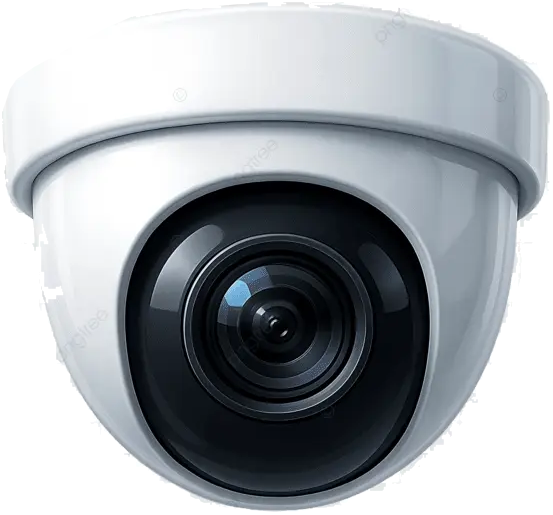
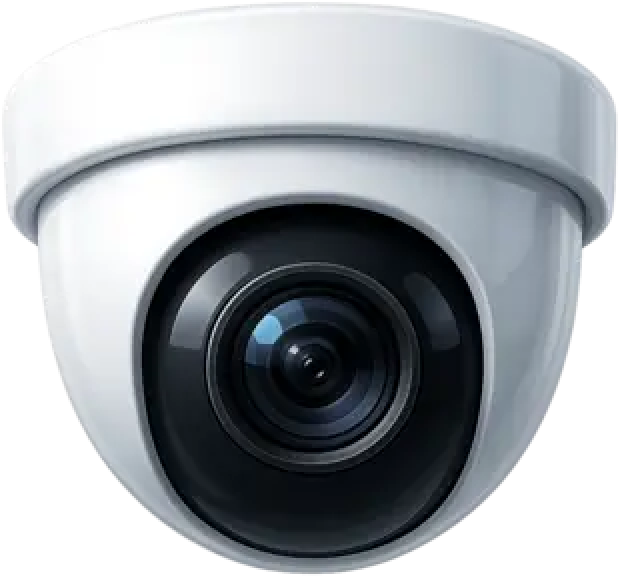
ob-loading: black magnifier reveals a 5% ghost camera
Swap in the clean transparent dome-camera image. Outside the lens the
camera sits at 5% opacity; the black magnifier wanders over it and
only its glass shows the camera, returning to the camera lens.

diff --git a/home-app-oneui.html b/home-app-oneui.html
@@ -2701,18 +2701,17 @@ button.oneui-Avatar{position:relative}
 @keyframes ob-pulse{0%{transform:scale(.7);opacity:.35}100%{transform:scale(1.35);opacity:0}}
 .ob-search-layer{position:absolute;left:0;top:0;width:320px;height:260px}
 .ob-item{position:absolute;display:block}
-.ob-item-camera{left:55px;top:32px;width:210px;height:196px;object-fit:contain;filter:drop-shadow(0 14px 18px color-mix(in srgb,var(--Primary-Bold) 18%,transparent))}
-.ob-search-view .ob-item-camera{filter:none}
-/* Magnifier: 60px lens with a gradient ring; its glass shows the camera magnified. */
+.ob-item-camera{left:55px;top:32px;width:210px;height:196px;object-fit:contain}
+/* Outside the lens the camera is barely there; only the lens shows it clearly. */
+.ob-search-ghost{opacity:.05}
+/* Magnifier: 60px black lens; its glass shows the camera magnified. */
 .ob-search-lens{position:absolute;left:0;top:0;width:84px;height:120px;will-change:transform}
-.ob-search-view{position:absolute;left:9px;top:9px;width:54px;height:54px;border-radius:var(--Shape-Pill);overflow:hidden;background:var(--Surface-Fill-Default);box-shadow:inset 0 0 0 1px color-mix(in srgb,var(--Informative-Bold) 25%,transparent)}
+.ob-search-view{position:absolute;left:9px;top:9px;width:54px;height:54px;border-radius:var(--Shape-Pill);overflow:hidden;background:var(--Surface-Fill-Default)}
 .ob-search-view .ob-search-layer{transform-origin:0 0}
-.ob-search-icon{position:absolute;left:0;top:0;width:84px;height:120px;overflow:visible;filter:drop-shadow(0 6px 10px color-mix(in srgb,var(--Primary-Bold) 28%,transparent))}
-.ob-search-halo{stroke:var(--Surface-Fill-Default);stroke-width:10;stroke-linecap:round}
-.ob-search-halo-handle{stroke-width:13}
-.ob-search-ring{stroke:url(#ob-lens-grad);stroke-width:6}
-.ob-search-glint{stroke:var(--Surface-Fill-Default);stroke-width:3;stroke-linecap:round;opacity:.85}
-.ob-search-handle{stroke:url(#ob-lens-grad);stroke-width:9;stroke-linecap:round}
+.ob-search-icon{position:absolute;left:0;top:0;width:84px;height:120px;overflow:visible;filter:drop-shadow(0 6px 10px var(--Overlay-On-Media-Lowest))}
+.ob-search-ring{stroke:var(--Neutral-High);stroke-width:6}
+.ob-search-glint{stroke:var(--Neutral-Stroke-Medium);stroke-width:3;stroke-linecap:round}
+.ob-search-handle{stroke:var(--Neutral-High);stroke-width:9;stroke-linecap:round}
 @media (prefers-reduced-motion: reduce){.ob-aura::before,.ob-pulse{animation:none}}
 .ob-loading-title{transition:opacity var(--Motion-Duration-L) var(--Motion-Easing-Standard)}
 .ob-loading-sub{margin:0 auto;max-width:280px}
@@ -3617,21 +3616,12 @@ button.oneui-Avatar{position:relative}
       <div class="ob-aura"></div>
       <div class="ob-pulse"></div>
       <div class="ob-pulse" style="animation-delay:-1.6s"></div>
-      <div class="ob-search-layer" data-ob-layer>
+      <div class="ob-search-layer ob-search-ghost" data-ob-layer>
         <img class="ob-item ob-item-camera" src="assets/dome-cam.png" alt="" onerror="this.style.display='none'">
       </div>
       <div class="ob-search-lens" data-ob-lens>
         <div class="ob-search-view" data-ob-view></div>
         <svg class="ob-search-icon" viewBox="0 0 84 120" fill="none">
-          <defs>
-            <linearGradient id="ob-lens-grad" x1="0" y1="0" x2="1" y2="1">
-              <stop offset="0" stop-color="var(--Primary-Bold)"/>
-              <stop offset=".55" stop-color="var(--Informative-Bold)"/>
-              <stop offset="1" stop-color="var(--Sparkle-Bold)"/>
-            </linearGradient>
-          </defs>
-          <circle cx="36" cy="36" r="30" class="ob-search-halo"/>
-          <path d="M48 64 62 104" class="ob-search-halo ob-search-halo-handle"/>
           <circle cx="36" cy="36" r="30" class="ob-search-ring"/>
           <path d="M18 24a20 20 0 0 1 14-9" class="ob-search-glint"/>
           <path d="M48 64 62 104" class="ob-search-handle"/>
@@ -12811,9 +12801,9 @@ function tlDateNav(btn, dir){
 })();
 </script>
 <script>
-/* ob-loading — searching scene: a small magnifier scans the smart camera and shows each part
-   magnified in its lens, dwelling on the camera lens; the aurora spotlight follows it. Only
-   animates while the screen is showing, and rests on the camera lens for reduced-motion users. */
+/* ob-loading — searching scene: the camera is a faint 5% ghost and a small black magnifier
+   wanders over it, showing only what is under the lens; it keeps coming back to the camera
+   lens. Only animates while the screen is showing; rests on the lens for reduced motion. */
 (function obSearch(){
   var section = document.querySelector('[data-screen="ob-loading"]');
   var scene   = document.getElementById('ob-search');
@@ -12822,12 +12812,13 @@ function tlDateNav(btn, dir){
   var view  = scene.querySelector('[data-ob-view]');
   var ghost = scene.querySelector('[data-ob-layer]');
   var zoom  = ghost.cloneNode(true);
-  zoom.removeAttribute('data-ob-layer');
+  zoom.classList.remove('ob-search-ghost'); zoom.removeAttribute('data-ob-layer');
   view.appendChild(zoom);
 
-  var K = 1.8, PERIOD = 7200, LENS_C = 36, VIEW_R = 27;
-  var CAM = {x:159, y:150}, TOP = {x:178, y:62}, RIGHT = {x:240, y:112}, LEFT = {x:88, y:122};
-  var WAY = [[0,CAM],[.16,CAM],[.30,TOP],[.40,RIGHT],[.52,CAM],[.66,CAM],[.80,LEFT],[.88,LEFT],[1,CAM]];
+  var K = 1.4, PERIOD = 9000, LENS_C = 36, VIEW_R = 27;
+  var CAM = {x:160, y:154}, NW = {x:72, y:66}, TOP = {x:172, y:52}, RIGHT = {x:248, y:116},
+      SE = {x:226, y:214}, LEFT = {x:80, y:142};
+  var WAY = [[0,CAM],[.12,CAM],[.24,NW],[.32,NW],[.42,TOP],[.52,RIGHT],[.58,RIGHT],[.68,SE],[.78,LEFT],[.84,LEFT],[.94,CAM],[1,CAM]];
   function ease(u){ return u*u*u*(u*(u*6-15)+10); }
   function place(p, bob){
     var x = p.x, y = p.y + bob;

diff --git a/sw.js b/sw.js
@@ -1,4 +1,4 @@
-var CACHE = 'jiosense-v133';
+var CACHE = 'jiosense-v134';
 var CORE = [
   './',
   './index.html',
